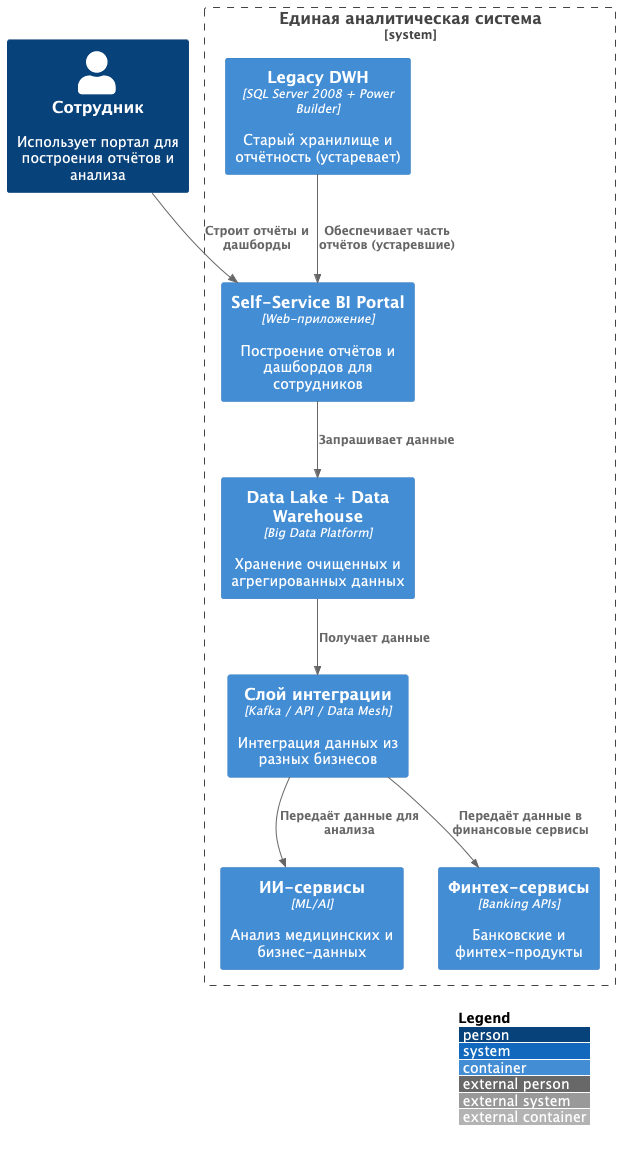
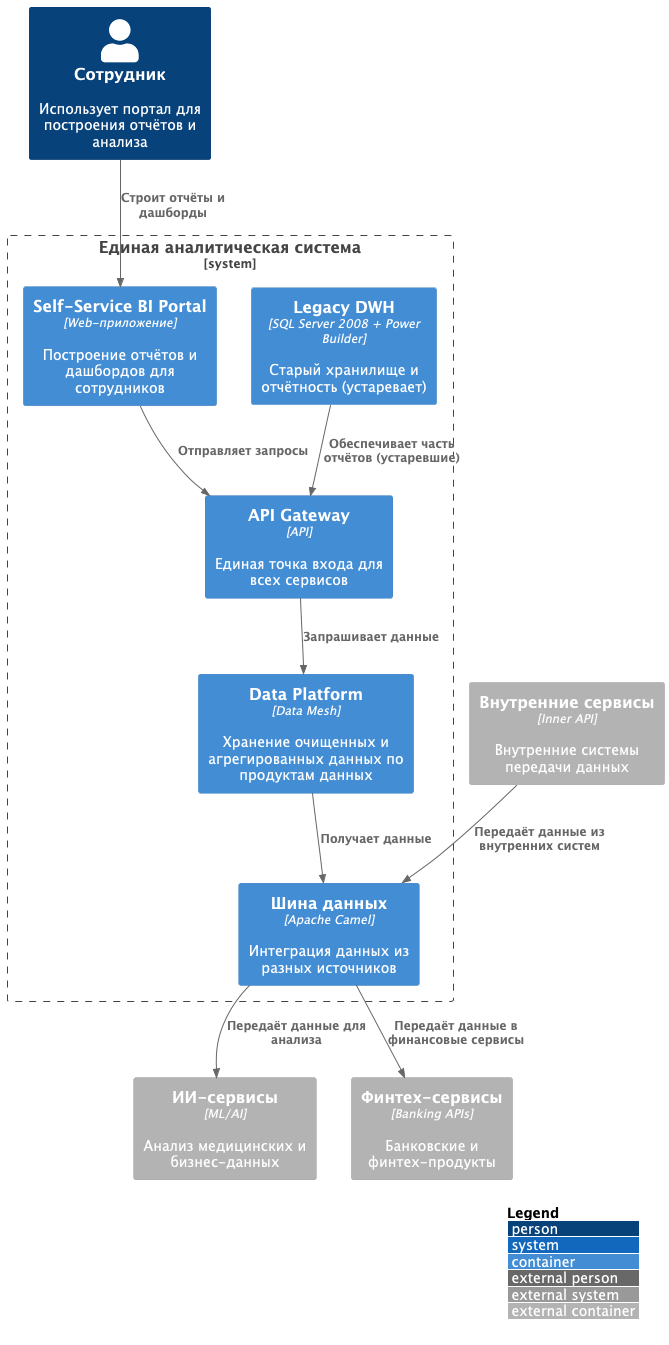
task update review

diff --git a/Task3/task3.md b/Task3/task3.md
@@ -1,33 +1,32 @@
 ## Технический радар
 
-| Зона   | Технология/Инструмент                 | Комментарий                                                                                          |
-|--------|---------------------------------------|------------------------------------------------------------------------------------------------------|
-| Adopt  | Power BI                              | Основной инструмент для построения дашбордов и отчётов; интеграция с витриной данных.                |
-|        | Python                                | Используется для аналитики, ИИ-сервисов и обработки данных.                                          |
-|        | Golang                                | Применяется для разработки высокопроизводительных финтех-сервисов.                                   |
-|        | Java                                  | Используется для интеграционных сервисов и API.                                                      |
-| Trial  | Apache Kafka                          | Для потоковой передачи данных между системами; поддержка real-time ETL.                              |
-|        | Data Mesh                             | Архитектурный подход для децентрализованной интеграции данных из разных доменов.                     |
-|        | S3 / Cloud Storage                    | Хранение больших объёмов данных, резервное копирование и историзация.                                |
-|        | Iceberg                               | Табличный формат для больших данных с поддержкой ACID-транзакций и версионирования.                  |
-|        | Nessie                                | Управление метаданными и каталогами данных, контроль версий таблиц.                                  |
-|        | Apache Airflow                        | Оркестрация ETL-процессов, построение pipelines и мониторинг задач.                                  |
-| Access | Dremio / Trino                        | Выполнение SQL-запросов по данным в различных хранилищах без переноса.                               |
-| Hold   | DWH на базе Microsoft SQL Server 2008 | Легаси-система, остаётся временно для исторических данных; планируется миграция.                     |
-|        | Power Builder                         | Устаревший интерфейс для операторов; постепенно заменяется новым фронтендом.                         |
-|        | Apache Camel                          | Старая интеграционная шина; будет постепенно заменена или интегрирована с современными коннекторами. |
+| Зона   | Технология/Инструмент                 | Комментарий                                                                           |
+|--------|---------------------------------------|---------------------------------------------------------------------------------------|
+| Adopt  | Power BI                              | Основной инструмент для построения дашбордов и отчётов; интеграция с витриной данных. |
+|        | Python                                | Используется для аналитики, ИИ-сервисов и обработки данных.                           |
+|        | Golang                                | Применяется для разработки высокопроизводительных финтех-сервисов.                    |
+|        | Java                                  | Используется для интеграционных сервисов и API.                                       |
+|        | Apache Camel                          | Интеграционная шина для подключения различных источников данных.                      |
+| Trial  | Data Mesh                             | Архитектурный подход для децентрализованной интеграции данных из разных доменов.      |
+|        | S3 / Cloud Storage                    | Хранение больших объёмов данных, резервное копирование и историзация.                 |
+|        | Iceberg                               | Табличный формат для больших данных с поддержкой ACID-транзакций и версионирования.   |
+|        | Nessie                                | Управление метаданными и каталогами данных, контроль версий таблиц.                   |
+|        | Apache Airflow                        | Оркестрация ETL-процессов, построение pipelines и мониторинг задач.                   |
+| Access | Dremio / Trino                        | Выполнение SQL-запросов по данным в различных хранилищах без переноса.                |
+| Hold   | DWH на базе Microsoft SQL Server 2008 | Легаси-система, остаётся временно для исторических данных; планируется миграция.      |
+|        | Power Builder                         | Устаревший интерфейс для операторов; постепенно заменяется новым фронтендом.          |
 
 ## Roadmap трансформации ИТ-ландшафта
 
-| Этап                              | Период   | Цели и результаты                                                                                                                                                                     | Ответственные команды                              | Ресурсы                                                                         |
-|-----------------------------------|----------|---------------------------------------------------------------------------------------------------------------------------------------------------------------------------------------|----------------------------------------------------|---------------------------------------------------------------------------------|
-| 1. Анализ и подготовка            | 0–1 мес  | - Определение доменов и границ данных<br>- Анализ источников (DWH, ИИ, финтех)<br>- Оценка легаси-систем и требований к витрине                                                       | Архитекторы данных, BI-команда, DevOps             | SQL Server, документация легаси, инструменты анализа данных                     |
-| 2. Создание Data Lakehouse        | 1–3 мес  | - Развёртывание Lakehouse (S3/Cloud Storage + Iceberg/Delta)<br>- Интеграция источников данных<br>- Настройка версионирования через Nessie<br>- Первичные ETL-пайплайны (Airflow/DBT) | Data Engineering, DevOps                           | Облачное хранилище, кластеры Spark/Flink, Airflow, Nessie                       |
-| 3. Построение Data Products       | 2–4 мес  | - Создание витрин для финансов, клиник, ИИ<br>- Подготовка агрегированных таблиц для аналитики<br>- Контроль доступа по доменам                                                       | Data Engineering, BI-команда                       | SQL/SQL-on-Hadoop, Power BI, системы управления доступом                        |
-| 4. Портал самообслуживания (MVP)  | 3–6 мес  | - Разработка веб-портала для построения отчётов<br>- Подключение Power BI к витринам<br>- Реализация ролей и контроля доступа                                                         | Frontend, BI, DevOps                               | Веб-фреймворки (React/Next.js), API для доступа к Data Marts, Power BI Embedded |
-| 5. Интеграция стриминговых данных | 4–8 мес  | - Подключение Kafka / Pulsar для потоковых данных<br>- Настройка real-time ETL<br>- Мониторинг потоков                                                                                | Data Engineering, FinTech/ИИ команды               | Kafka / Pulsar, Spark Streaming / Flink, мониторинг (Prometheus/Grafana)        |
-| 6. Миграция легаси BI и DWH       | 6–12 мес | - Постепенная замена Power Builder интерфейсов<br>- Перенос отчетов Power BI на новый слой<br>- Архивирование исторических данных в Lakehouse                                         | BI-команда, Frontend, Data Engineering             | Тестовая среда, скрипты миграции, Power BI, веб-фронтенд                        |
-| 7. Подключение новых бизнесов     | 8–12 мес | - Интеграция данных фармацевтики и электроники<br>- Расширение витрины и портала самообслуживания<br>- Контроль доступа и безопасность                                                | Data Engineering, BI, DevOps, бизнес-подразделения | Новые источники данных, ETL, Lakehouse, портал                                  |
+| Этап                              | Период   | Цели и результаты                                                                                                                                                                                     | Ответственные команды                              | Ресурсы                                                                         |
+|-----------------------------------|----------|-------------------------------------------------------------------------------------------------------------------------------------------------------------------------------------------------------|----------------------------------------------------|---------------------------------------------------------------------------------|
+| 1. Анализ и подготовка            | 0–1 мес  | - Определение доменов и границ данных<br>- Анализ источников (DWH, ИИ, финтех)<br>- Оценка легаси-систем и требований к витрине                                                                       | Архитекторы данных, BI-команда, DevOps             | SQL Server, документация легаси, инструменты анализа данных                     |
+| 2. Создание Data Mesh             | 1–3 мес  | - Развёртывание DataMesh поверх Lakehouse (S3/Cloud Storage + Iceberg/Delta)<br>- Интеграция источников данных<br>- Настройка версионирования через Nessie<br>- Первичные ETL-пайплайны (Airflow/DBT) | Data Engineering, DevOps                           | Облачное хранилище, кластеры Spark/Flink, Airflow, Nessie                       |
+| 3. Построение Data Products       | 2–4 мес  | - Создание витрин для финансов, клиник, ИИ<br>- Подготовка агрегированных таблиц для аналитики<br>- Контроль доступа по доменам                                                                       | Data Engineering, BI-команда                       | SQL/SQL-on-Hadoop, Power BI, системы управления доступом                        |
+| 4. Портал самообслуживания (MVP)  | 3–6 мес  | - Разработка веб-портала для построения отчётов<br>- Подключение Power BI к витринам<br>- Реализация ролей и контроля доступа                                                                         | Frontend, BI, DevOps                               | Веб-фреймворки (React/Next.js), API для доступа к Data Marts, Power BI Embedded |
+| 5. Интеграция стриминговых данных | 4–8 мес  | - Подключение Kafka / Pulsar для потоковых данных<br>- Настройка real-time ETL<br>- Мониторинг потоков                                                                                                | Data Engineering, FinTech/ИИ команды               | Kafka / Pulsar, Spark Streaming / Flink, мониторинг (Prometheus/Grafana)        |
+| 6. Миграция легаси BI и DWH       | 6–12 мес | - Постепенная замена Power Builder интерфейсов<br>- Перенос отчетов Power BI на новый слой<br>- Архивирование исторических данных в Lakehouse                                                         | BI-команда, Frontend, Data Engineering             | Тестовая среда, скрипты миграции, Power BI, веб-фронтенд                        |
+| 7. Подключение новых бизнесов     | 8–12 мес | - Интеграция данных фармацевтики и электроники<br>- Расширение витрины и портала самообслуживания<br>- Контроль доступа и безопасность                                                                | Data Engineering, BI, DevOps, бизнес-подразделения | Новые источники данных, ETL, Lakehouse, портал                                  |
 
 ## Обоснование
 
@@ -36,7 +35,7 @@
 - **Зачем:** Нужно понять границы доменов и источники данных, чтобы дальнейшие изменения были целенаправленными. Без
   этого этапа есть риск дублирования работы и ошибок при интеграции новых бизнесов.
 
-**Этап 2: Создание Data Lakehouse**
+**Этап 2: Создание Data Mesh**
 
 - **Зачем:** Современное хранилище позволяет масштабировать хранение сотен терабайт данных, поддерживает ACID-транзакции
   и версионирование (Iceberg/Delta + Nessie). Облегчает интеграцию новых источников без переписывания DWH.

diff --git a/Task1/task1.md b/Task1/task1.md
@@ -2,10 +2,12 @@
 
 * Портал витрины данных (Self-Service BI Portal) — основной интерфейс для сотрудников. Тут строятся отчёты, дашборды,
   конструкторы.
-* Слой аналитических данных (Data Lakehouse) — хранение очищенных и агрегированных данных (без медицинских карт). Делится на домены (финансы, персонал, инвентаризация и т.д.).
-* Слой интеграции (Data Mesh / API / Kafka) — получение данных из разных бизнесов (клиники, банк, ИИ, фармацевтика, электроника).
+* DataPlatform (Data Mesh) — хранение очищенных и агрегированных данных (без медицинских карт). Делится на домены (финансы, персонал, инвентаризация и т.д.).
+* ESB (Шина данных) — получение данных из разных бизнесов (клиники, банк, ИИ, фармацевтика, электроника).
+* Api Gateway — маршрутизация запросов от портала к нужным доменам, так же выступает в роли ACL для старой DWH
 * ИИ-сервисы — подключаются к данным, где это разрешено, обрабатывают медицинскую информацию.
-* Финтех-сервисы — банк и финтех-продукты, подключённые к общему ландшафту через слой интеграции.
+* Финтех-сервисы — банк и финтех-продукты, подключённые к общему ландшафту через шину данных.
+* Внутренние сервисы — отдают внутренние данные
 * Legacy DWH (SQL Server 2008 + Power Builder) — временно остаётся, но постепенно заменяется.
 
 ## Проблемные места
@@ -19,9 +21,9 @@
 ## Приоритизация (метод MoSCoW)
 
 * Must (обязательно):
-    * Построить новый слой аналитических данных (Data Lake + DWH).
+    * Построить новый слой аналитических данных (DataMesh).
     * Создать витрину данных для самообслуживания.
-    * Организовать интеграционный слой для новых бизнесов.
+    * Создать ACL для старого DWH.
 * Should (желательно):
     * Снизить зависимость от Legacy DWH.
     * Централизовать бизнес-правила (убрать дубли).
